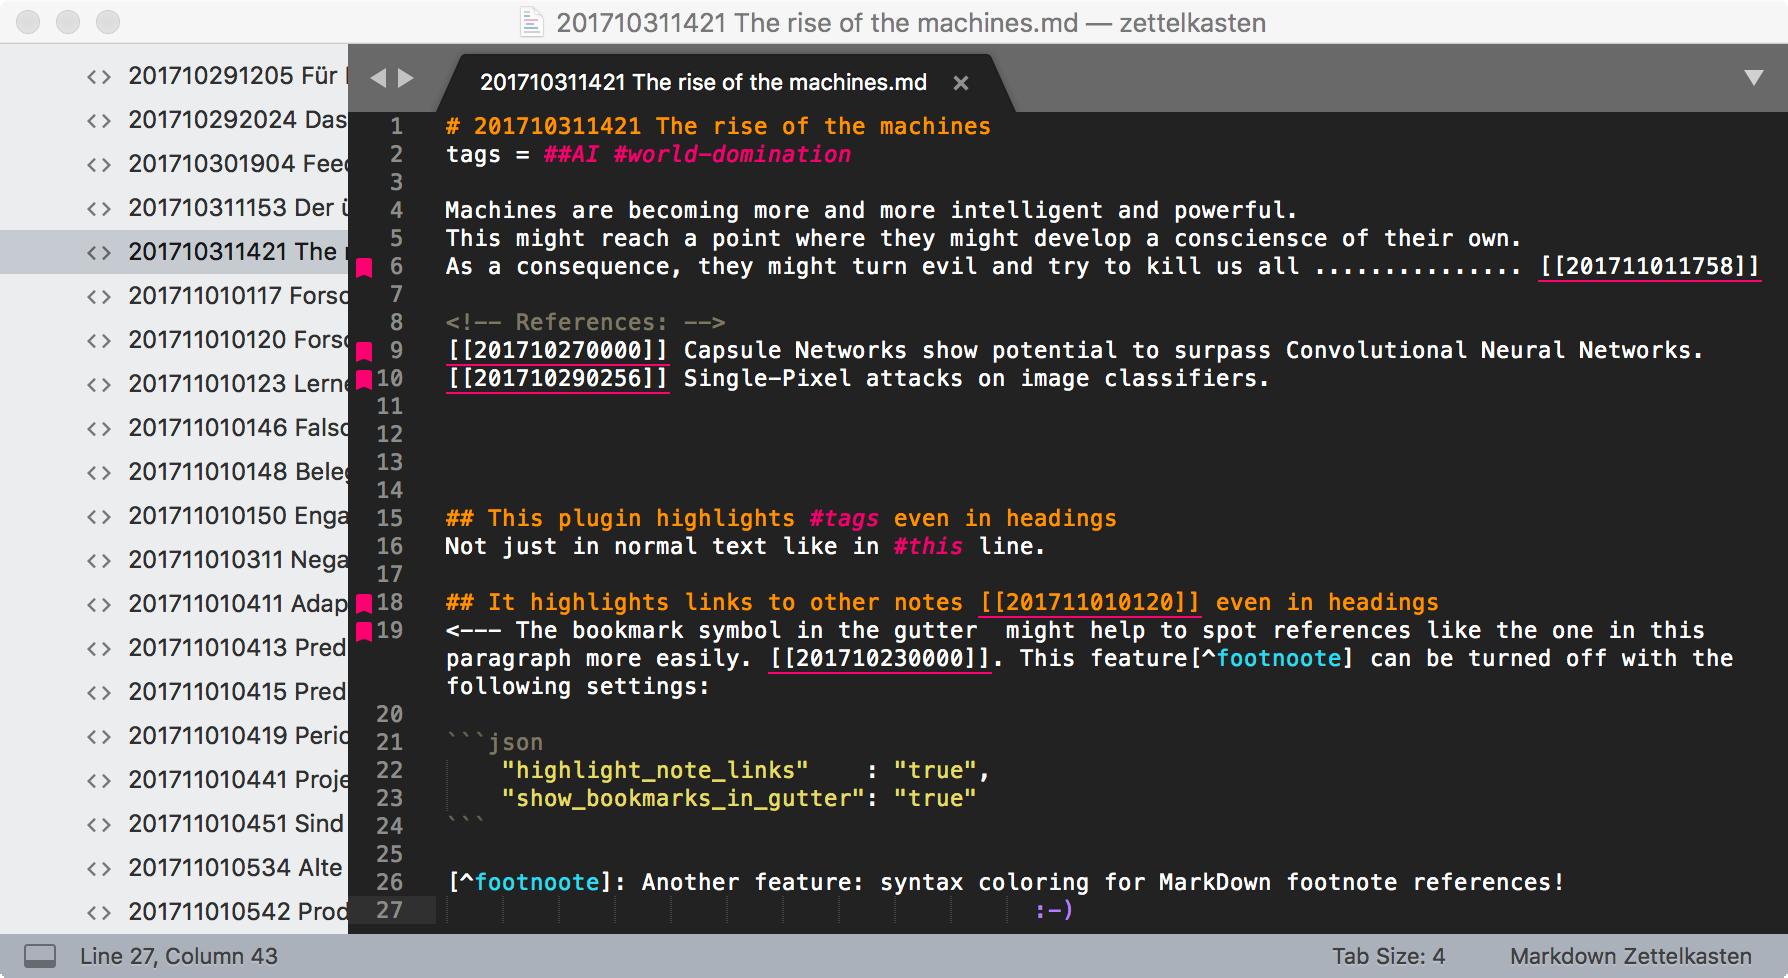
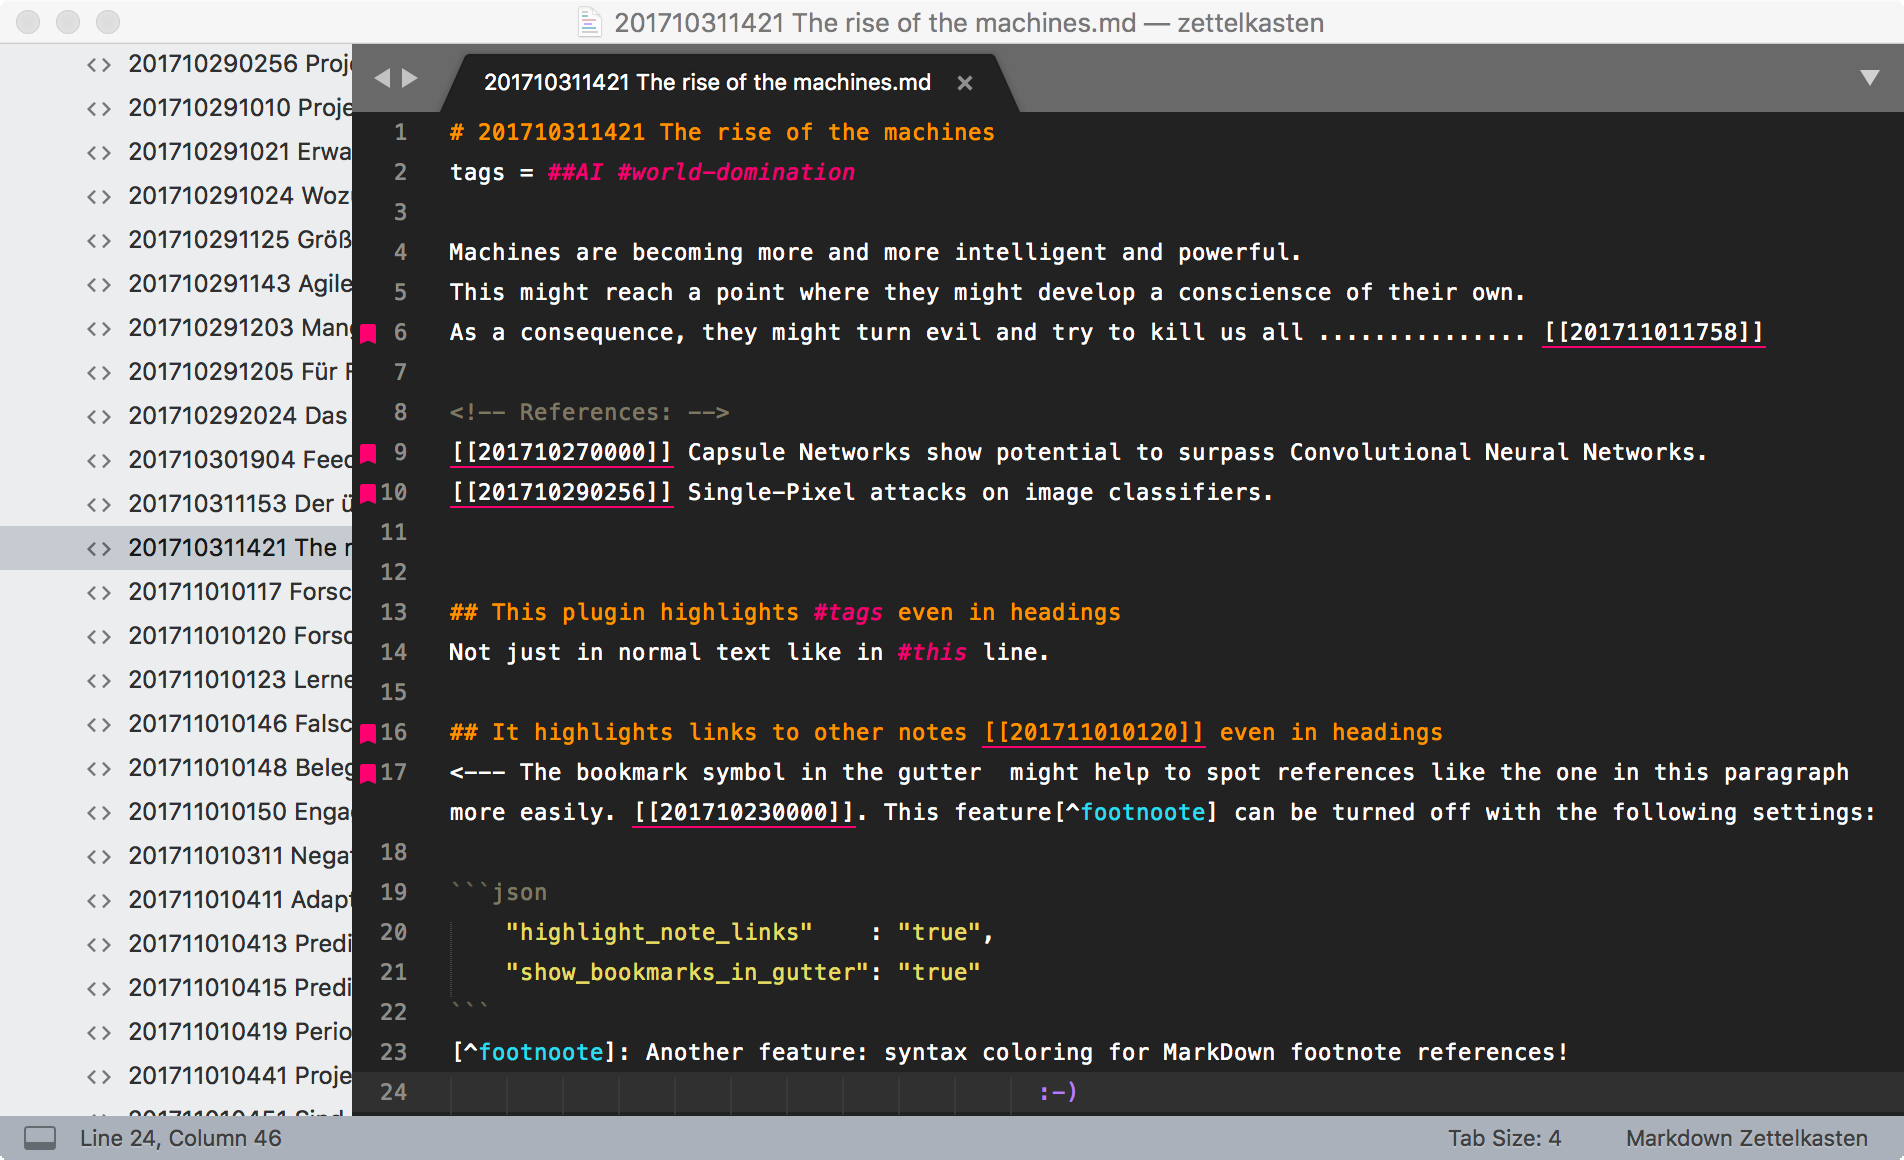
Screenshot and README show bigger line spacing

Changed region(s): [[0.0, 0.0, 1.0, 1.0]]

diff --git a/README.md b/README.md
@@ -1,6 +1,6 @@
 # Sublime ZK
 
-This is a small extension for SublimeText3 to enable ID-based, Wiki-style links in your documents.
+This is a plugin for SublimeText3 to enable ID-based, Wiki-style links in your documents.
 
 If you follow the (plain-text) Zettelkasten method (as proposed by [Zettelkasten.de](https://zettelkasten.de)), this might appeal to you.
 
@@ -11,8 +11,7 @@ In short, it helps you manage an archive of interlinked notes that look like thi
 See the [Usage](#usage) section below to see how this package might support your workflow.
 
 ## Features
-
-* This plugin enables you to place wiki style links like `[[this]]` into your notes to link to other notes in your note archive. 
+* This plugin enables you to place wiki style links like `[[this]]` into your notes to link to other notes in your note archive.
 * Clicking such a link and pressing `[ctrl]+[enter]` will open the corresponding note.
 * Typing `[[` will open a list of existing notes so you can quickly link to existing notes.
 * Typing `[shift]+[enter]` lets you enter a name for a new note. The new note is then created with a new note ID.
@@ -22,7 +21,6 @@ See the [Usage](#usage) section below to see how this package might support your
 
 
 ## Installation
-
 The following steps cover all dependencies and prerequisites. Skip the steps you don't need:
 
 1. Install [Sublime Text 3](http://www.sublimetext.com/3)
@@ -38,11 +36,9 @@ You should be all set.
 
 
 ### Zettelkasten note folder
-
 No further configuration is necessary. This Zettelkasten plugin works with SublimeText projects. It will use exactly the same directory where your SublimeText project file is located.
 
 #### How do I create a project in SublimeText?
-
 That's easier than it might look. This is how I do it:
 
 * Start with a fresh SublimeText window (containing no open files or projects).
@@ -61,7 +57,7 @@ Example for a note created with ID:
 
 ```markdown
 # 201710310128 This is a note with its ID in the title
-tags= 
+tags=
 
 The setting id_in_title is set to "true".
 ```
@@ -78,13 +74,9 @@ The setting id_in_title is set to "false"
 You can find this setting in the file `sublime_zk.sublime-settings`.
 
 ### Highlight references to other notes
-
 By default, this plugin highlights links to other notes by underlining them.
-
 **Note:** This only applies to links containing an ID, like this one: [[201710290256]].
-
 It also shows a bookmark symbol in the gutter to the left of your text. These features can be controlled via the following settings in `sublime_zk.sublime-settings`:
-
 
 ```json
     // highlight links to other notes?
@@ -94,13 +86,27 @@ It also shows a bookmark symbol in the gutter to the left of your text. These fe
     "show_bookmarks_in_gutter": "true"
 ```
 
+### Configuring SublimeText's line spacing
+When looking at the screenshot at the beginning of this document, you might have noticed the line spacing. I find it very pleasant to work with text this way. To configure SublimeText to use this line spacing:
+
+* use the menu: "Preferences" --> "Settings - Syntax specific"
+* SublimeText will show you two files side-by-side
+* change the one on the right side (also named `sublime_zk.sublime-settings`) as follows:
+
+```json
+// These settings override both User and Default settings for the sublime_zk syntax
+{
+	"line_padding_bottom": 3,
+	"line_padding_top": 3,
+}
+```
+**Note:** The above file is part of your "User" settings and will be created by SublimeText automatically. It is not the one you downloaded with this plugin. So please don't confuse the two :-)
 
 
 ## Usage
 
 ### Creating a new note
-
-* Press `[shift]+[enter]`. This will prompt you for the title of the new note at the bottom of your SublimeText window. 
+* Press `[shift]+[enter]`. This will prompt you for the title of the new note at the bottom of your SublimeText window.
 * Press `[ESC]` to cancel without creating a new note.
 * Enter the note title and press `[enter]`.
 
@@ -112,12 +118,11 @@ The new note will look like this:
 
 ```markdown
 # AI is going to kill us all
-tags = 
+tags =
 
 ```
 
-### Creating a link 
-
+### Creating a link
 Let's assume, you work in the note "201710282120 The rise of the machines":
 
 ```markdown
@@ -163,8 +168,7 @@ If you now click into `[[201710282118]]` and press `[ctrl]+[enter]`, the target 
 
 
 ### Implicitly creating a new note via a link
-
-There is another way to create a new note: Just create a link containing its title and follow the link. 
+There is another way to create a new note: Just create a link containing its title and follow the link.
 
 To showcase this, let's modify our example from above: Say, the "AI is going to kill us all" does **not** exist and you're in your "The rise of the machines" note.
 
@@ -217,14 +221,14 @@ The new note will be pre-filled with the following text:
 
 ```markdown
 # AI is going to kill us all
-tags = 
+tags =
 
 ```
 
 
 ## Credits
 
-Credits, where credits are due: 
+Credits, where credits are due:
 
 * I derived this work from Dan Sheffler's MyWiki code. [See his GitHub](https://github.com/dansheffler/MyWiki) and see the striking similarities ;-).
 * Thanks to [Niklas Luhmann](https://en.wikipedia.org/wiki/Niklas_Luhmann) for coming up with this unique way of using a Zettelkasten.
@@ -233,7 +237,7 @@ Credits, where credits are due:
 While we're at it, I highly recommend the following books (German); Google and Amazon are your friends:
 
 * "Das Zettelkastenprinzip" / "How to take smart notes" will blow your mind.
-* "Die Zettelkastenmethode" from Sascha over at zettelkasten.de will also blow your mind and expand on the plain-text approach of using a digital Zettelkasten. 
+* "Die Zettelkastenmethode" from Sascha over at zettelkasten.de will also blow your mind and expand on the plain-text approach of using a digital Zettelkasten.
 
 
 
